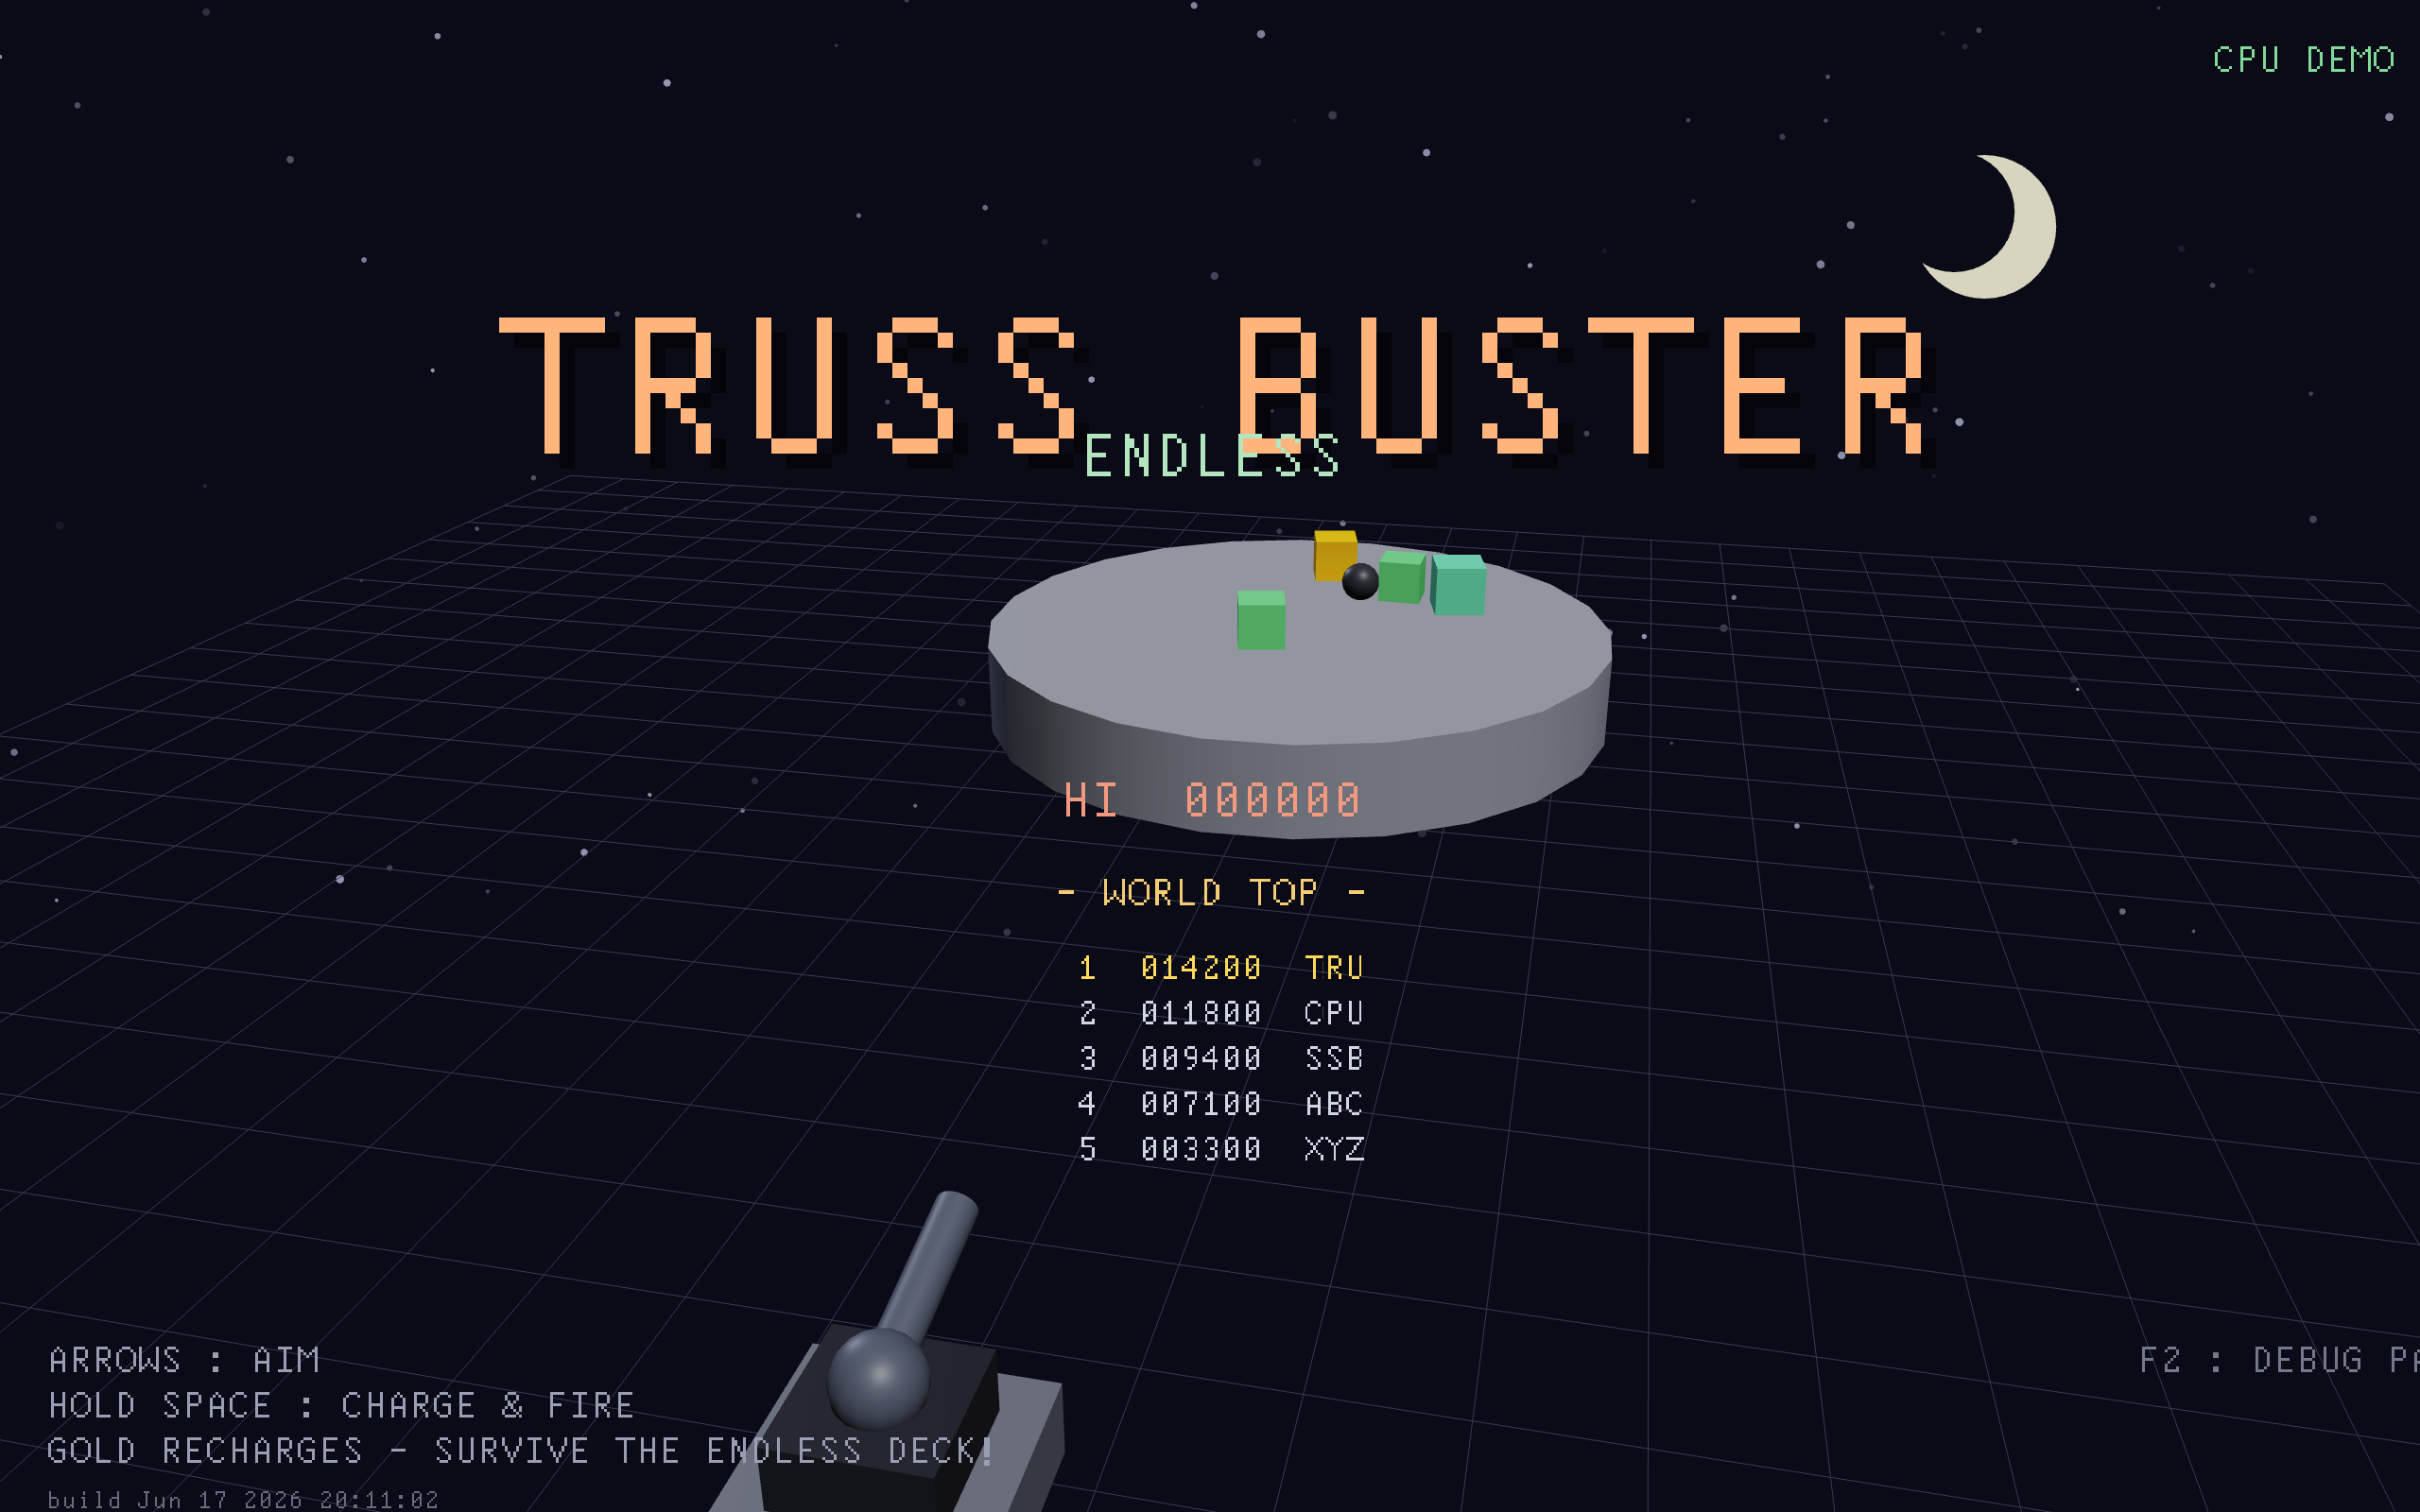
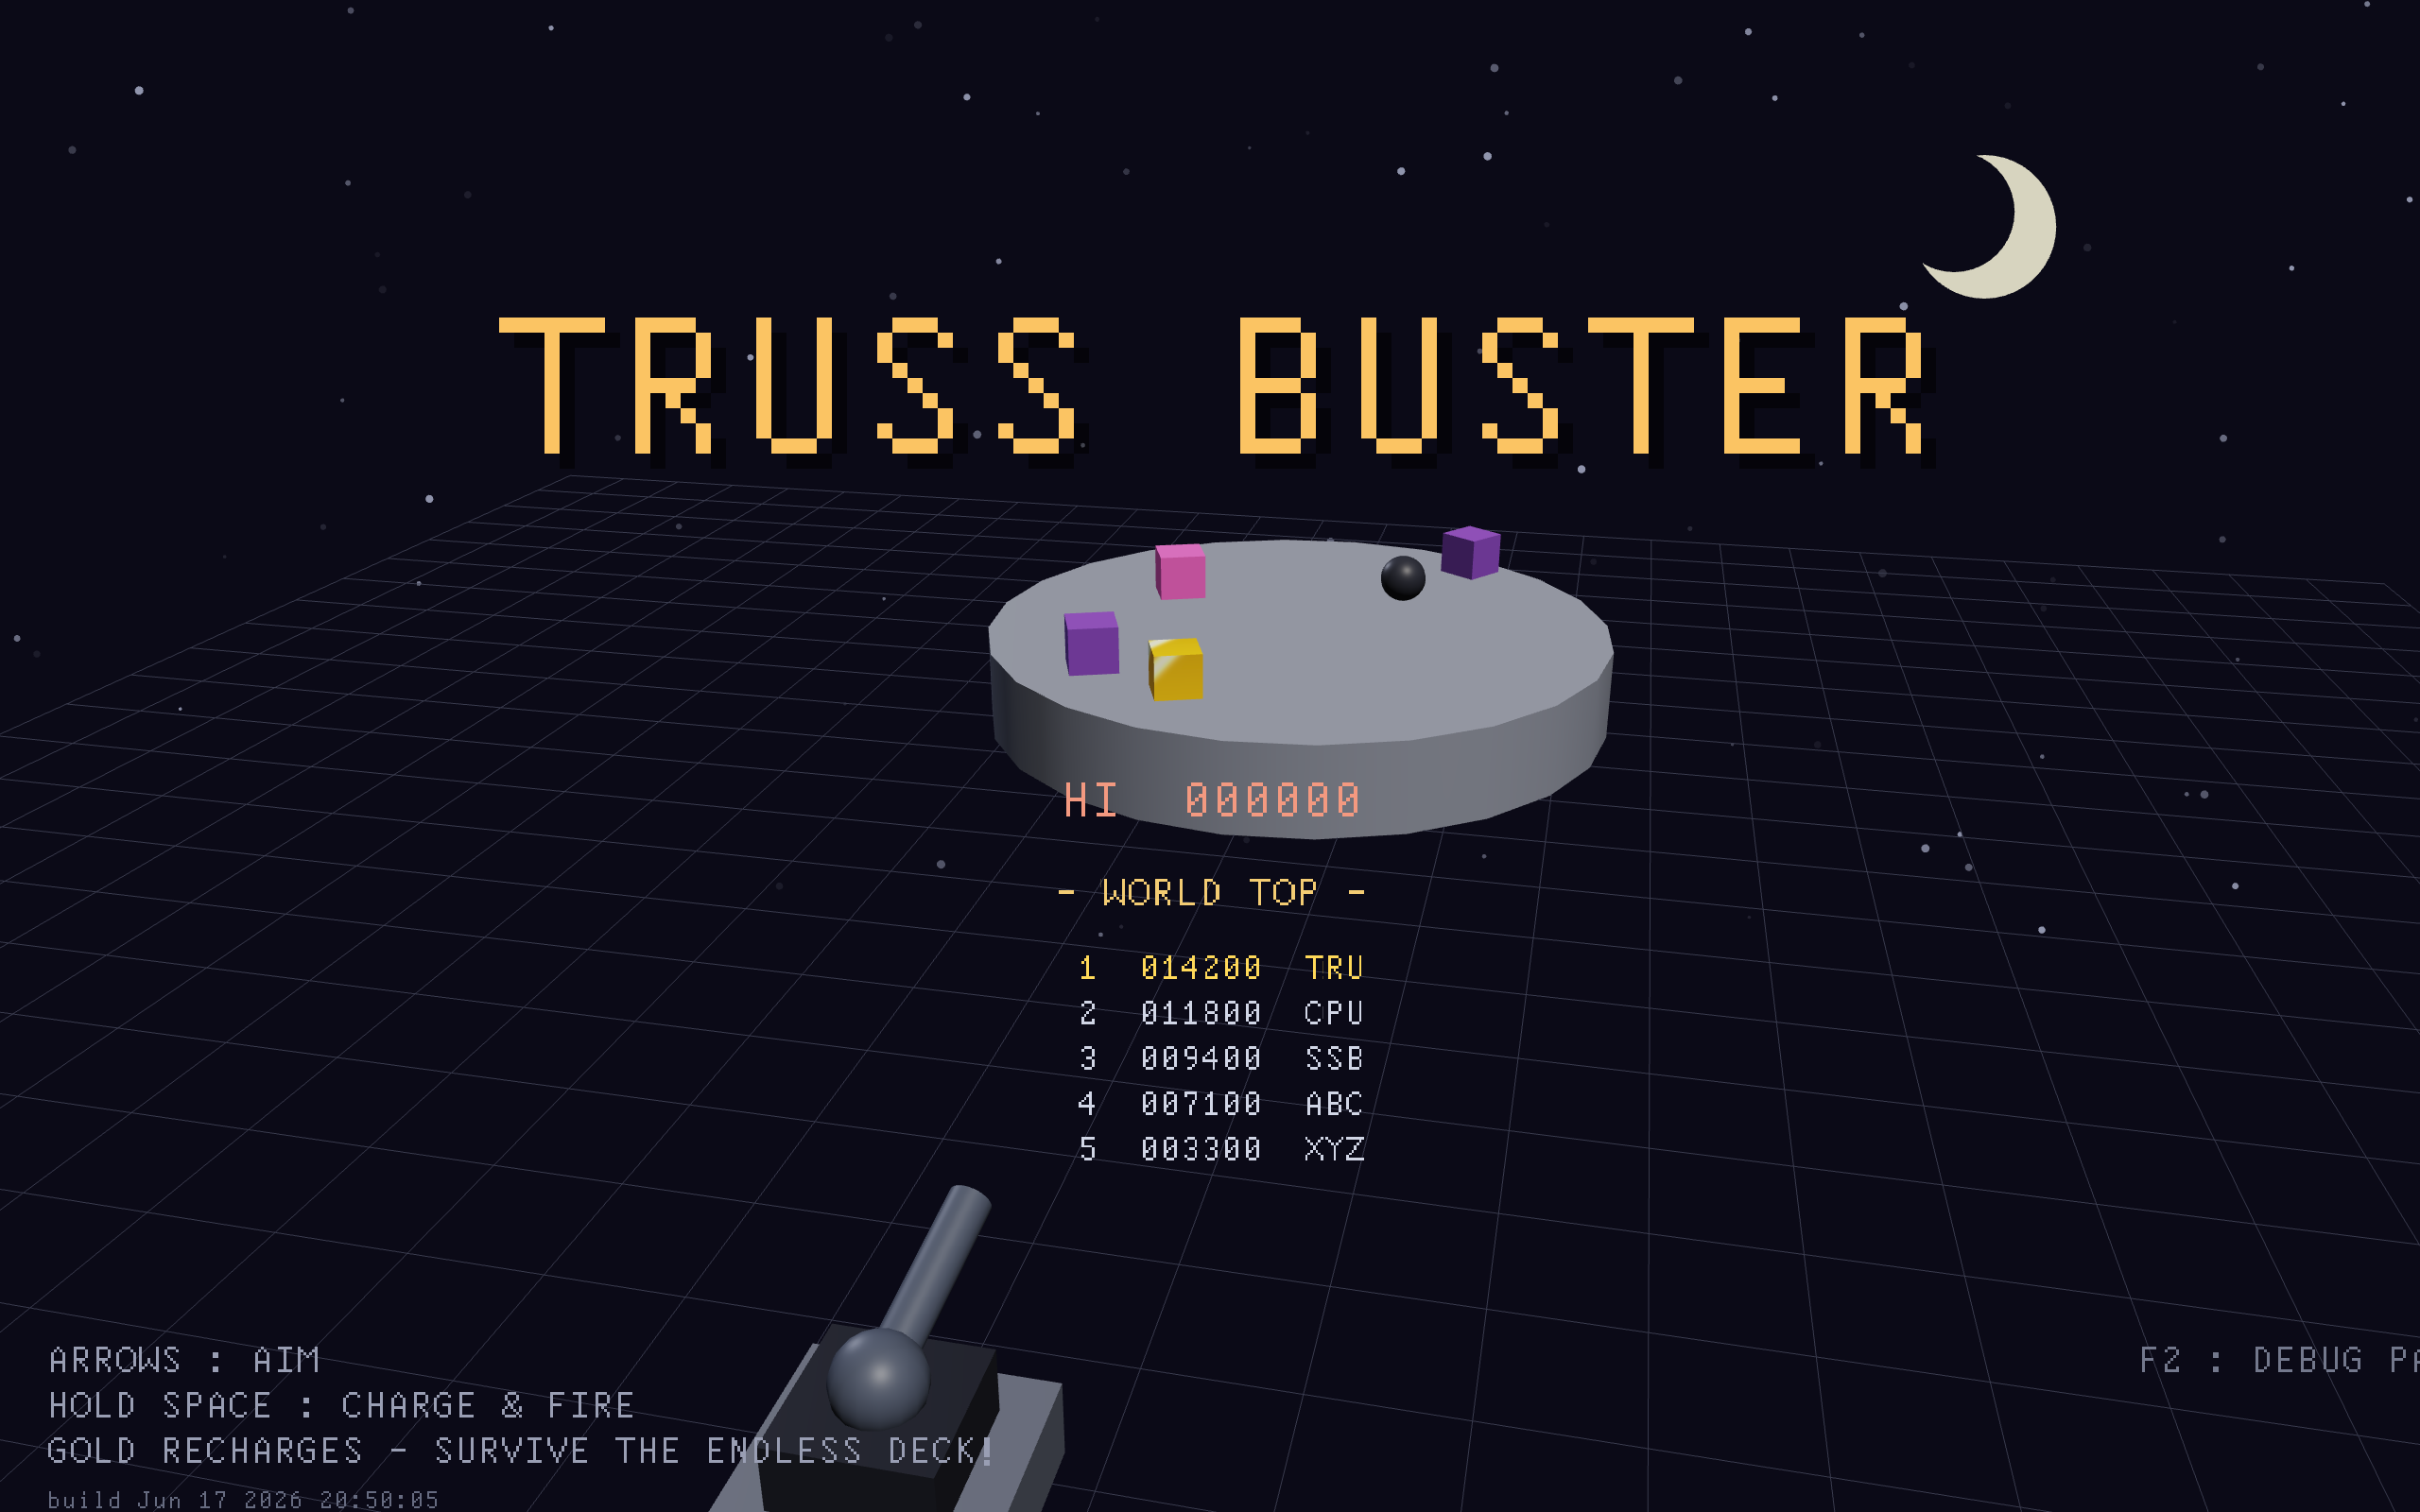
change: drop the ENDLESS subtitle from the title (and README/X text)
The 'ENDLESS' line overlapped the logo and the original TRUSS BUSTER isn't known,
so the game is just TRUSS BUSTER now. Updated the title screen, the X post text,
the worker header, and the README (+ refreshed title screenshot).

diff --git a/worldscore-worker/worker.js b/worldscore-worker/worker.js
@@ -1,4 +1,4 @@
-// World leaderboard API for TRUSS BUSTER ENDLESS.
+// World leaderboard API for TRUSS BUSTER.
 //   GET  /                        -> { score, initials, board:[{score,initials}..] }
 //   POST / {score,initials,token} -> same shape after inserting
 //

diff --git a/src/Hud.h b/src/Hud.h
@@ -90,8 +90,6 @@ private:
         Color logoCol = Color::fromOKLCH(0.85f, 0.13f, fmodf(t * 0.07f, 1.0f));
         float logoScale = std::min(8.0f, (W - 40) / (12 * 8.0f));
         centerShadow("TRUSS BUSTER", H * 0.18f, logoScale, logoCol);
-        center("ENDLESS", H * 0.18f + logoScale * 9.0f + 6, 2.5f * uiScale(),
-               Color(0.7f, 0.9f, 0.75f));
 
         if (fmodf(t, 1.2f) < 0.75f)
             centerShadow(mobile_ ? "TAP TO START" : "CLICK TO START",

diff --git a/src/WorldScore.cpp b/src/WorldScore.cpp
@@ -64,7 +64,7 @@ EM_JS(void, js_wsPrompt, (int s, const char* saltC), {
 EM_JS(void, js_share, (int score, int wave), {
     var url = "https://tettou771.github.io/demo-trussBuster2/";
     var text = "I reached Wave " + wave + " with a score of " + score +
-               " in TRUSS BUSTER ENDLESS! Can you beat it?";
+               " in TRUSS BUSTER! Can you beat it?";
     var x = "https://twitter.com/intent/tweet?text=" + encodeURIComponent(text) +
             "&url=" + encodeURIComponent(url);
     window.open(x, "_blank");

diff --git a/README.md b/README.md
@@ -1,4 +1,4 @@
-# TRUSS BUSTER ENDLESS
+# TRUSS BUSTER
 
 An endless 3D physics demolition game. A round platform spins; blocks ride it;
 you knock them off with a cannon — forever. Gold recharges your shots, gray junk